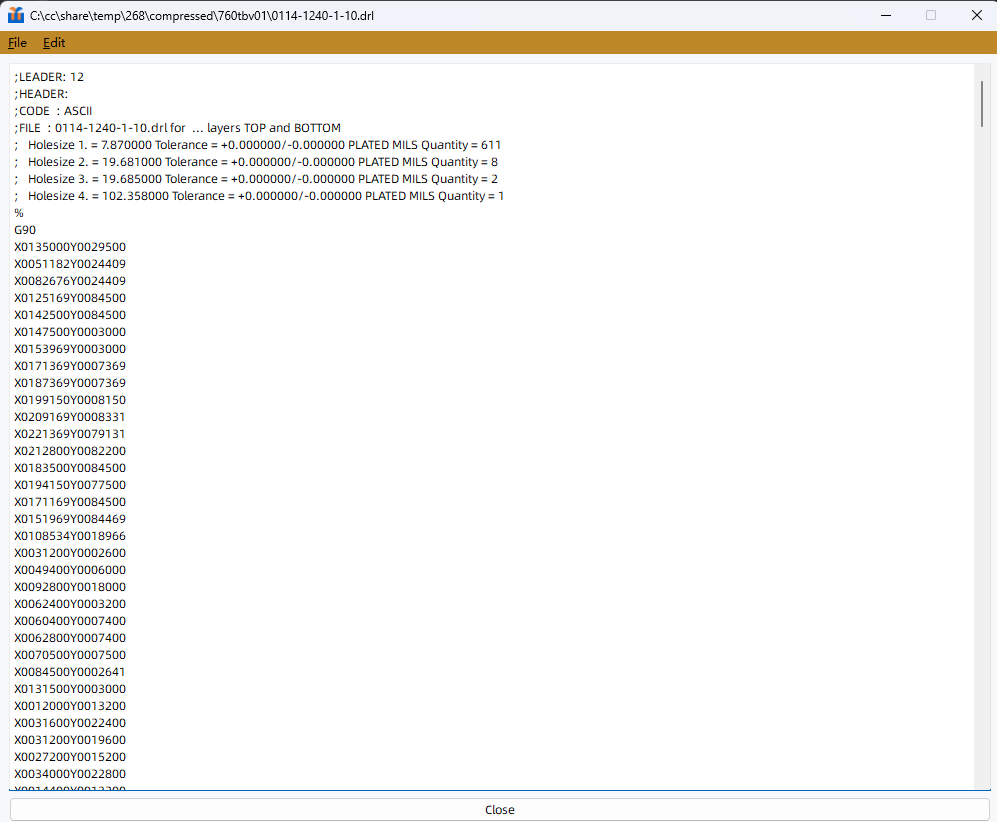
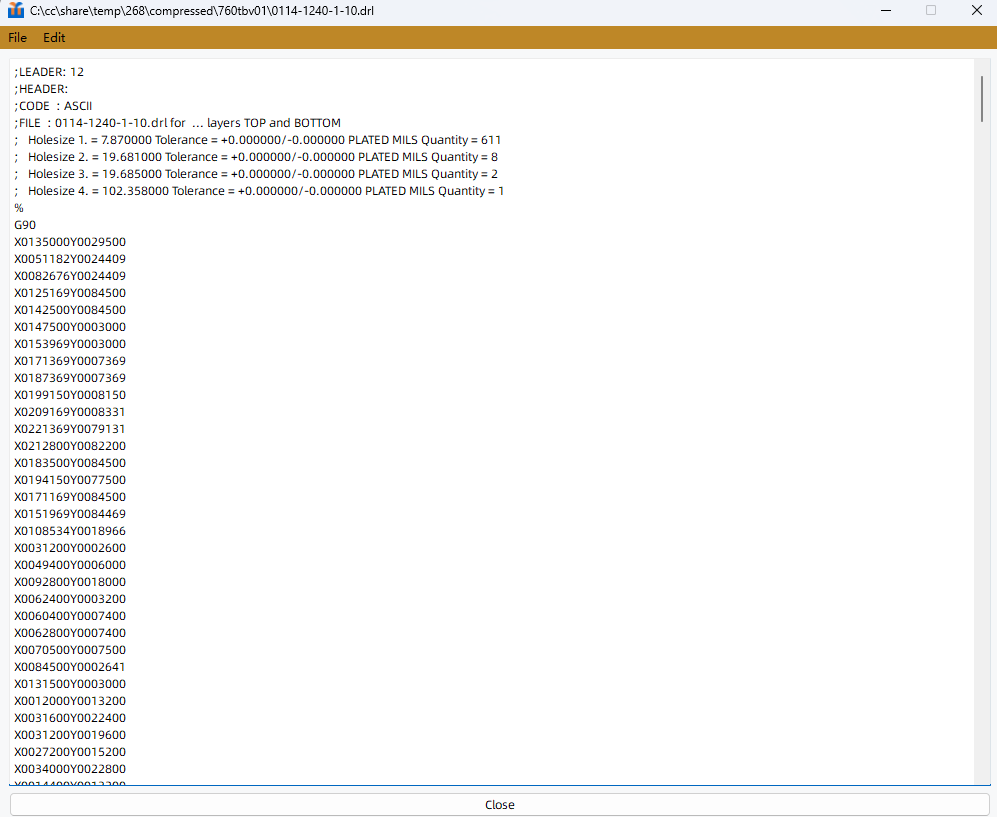
20231124 1 ok

Changed region(s): [[0.0, 0.0, 1.0, 0.9792]]

diff --git a/config_ep/page/page_input_view_ascii.py b/config_ep/page/page_input_view_ascii.py
@@ -25,7 +25,7 @@ class PageInputViewAscii(object):
         input_view_ascii_window_pic = self.engineering_input_view_ascii_window.capture_as_image()  # 截图
         input_view_ascii_window_pic.save(r'C:\cc\share\temp\input_view_ascii_window.png')  # 保存到硬盘
         img = cv2.imread(r'C:\cc\share\temp\input_view_ascii_window.png')
-        img_cut = img[0:822, 8:1005]  # 后面的是水平方向
+        img_cut = img[5:822, 8:1005]  # 后面的是水平方向
         cv2.imwrite(r"C:\cc\share\temp\input_view_ascii_window_cut.png", img_cut)
         cv2.waitKey(0)
         # 加载两张图片
